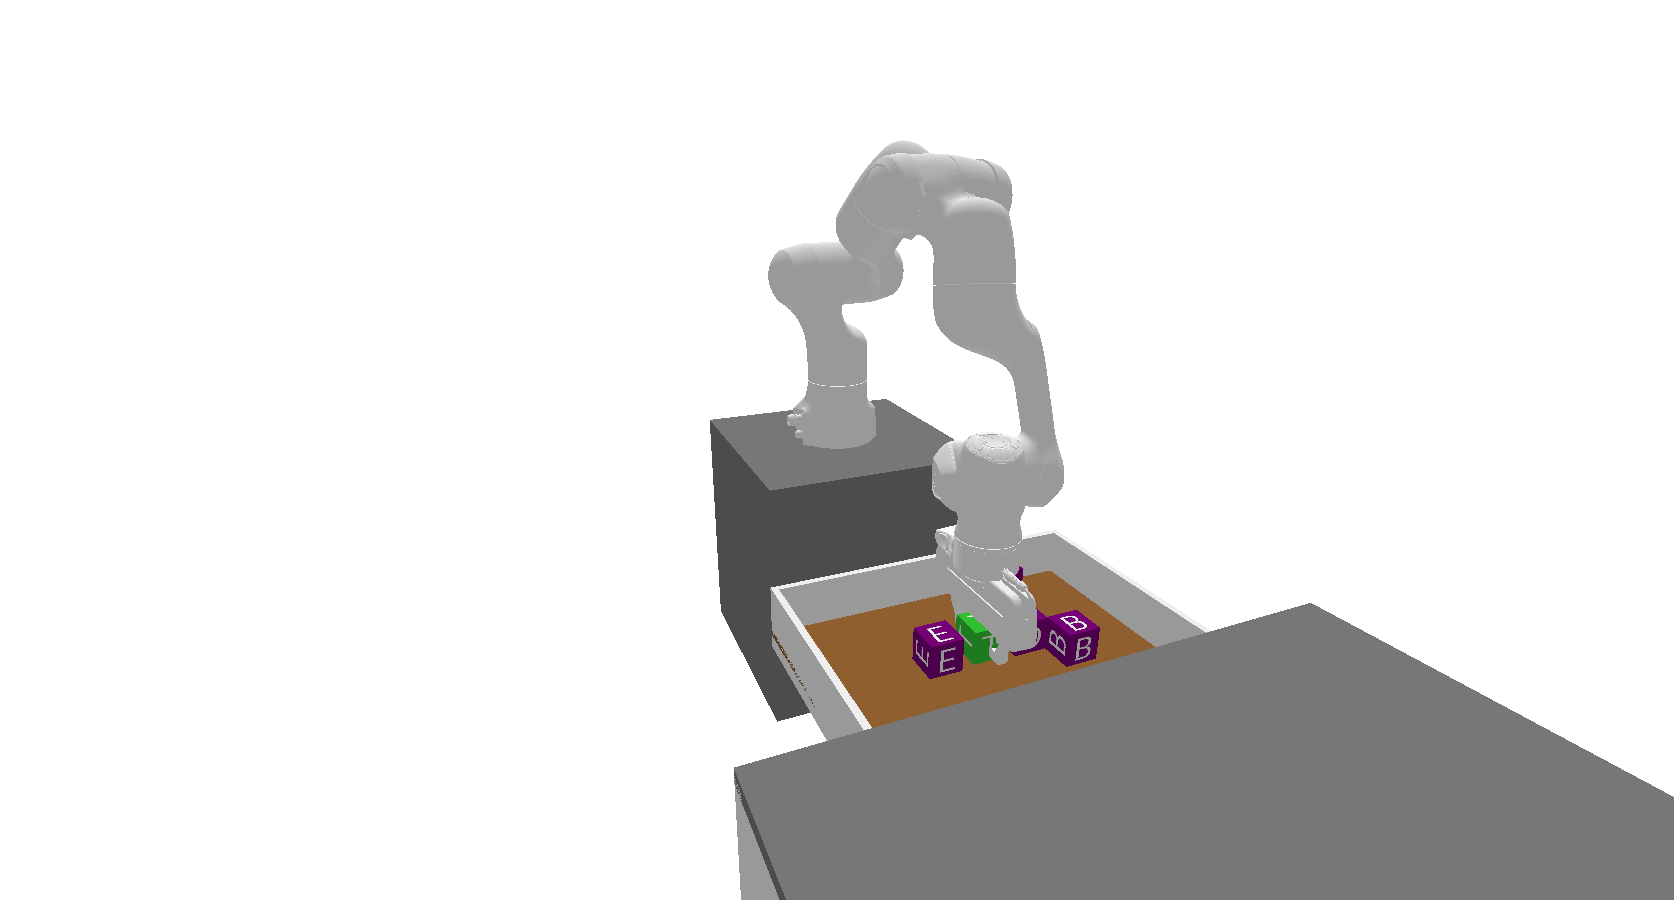
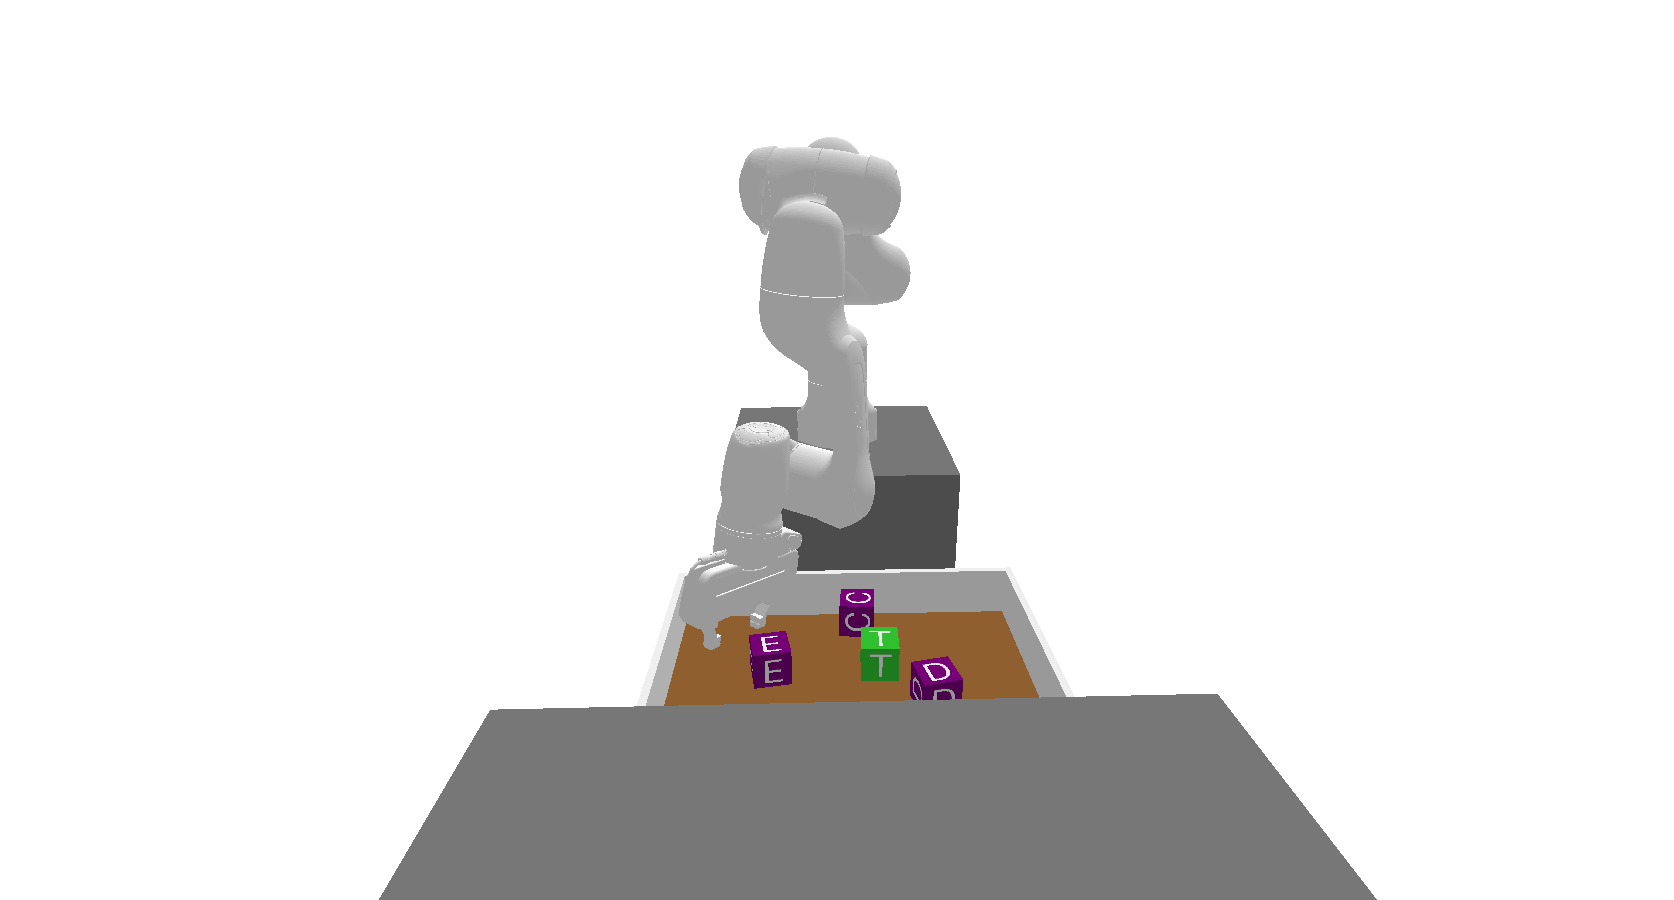
seems that we can connect 1 with 1215

Changed region(s): [[0.2174, 0.1556, 1.0, 1.0], [0.5281, 0.4356, 0.5591, 0.4667]]

diff --git a/src/tamp_improv/approaches/improvisational/base.py b/src/tamp_improv/approaches/improvisational/base.py
@@ -418,7 +418,7 @@ class ImprovisationalTAMPApproach(BaseApproach[ObsType, ActType]):
         visited_states = {frozenset(init_atoms): initial_node}
         queue = deque([(initial_node, 0)])  # Queue for BFS: [(node, depth)]
         node_count = 0
-        max_nodes = 1000
+        max_nodes = 2000
         print(f"Building planning graph with max {max_nodes} nodes...")
 
         # Breadth-first search to build the graph
@@ -598,7 +598,7 @@ class ImprovisationalTAMPApproach(BaseApproach[ObsType, ActType]):
         self,
         obs: ObsType,
         info: dict[str, Any],
-        debug: bool = True,
+        debug: bool = False,
     ) -> None:
         """Compute edge costs considering the path taken to reach each node.
 
@@ -655,6 +655,12 @@ class ImprovisationalTAMPApproach(BaseApproach[ObsType, ActType]):
                 envisioned_plan = [(0, 1), (1, 10), (10, 33), (33, 61), (61, 119), (119, 210), (210, 310), (310, 474), (474, 632), (1, 33)] # pylint: disable=line-too-long
                 if not (node.id, edge.target.id) in envisioned_plan:
                     continue
+
+                # B->C->D->E->T
+                # Node 1215 is a promising short cut
+                # envisioned_plan = [(0, 1), (1, 10), (10, 33), (33, 61), (61, 119), (119, 210), (210, 332), (332, 500), (500, 665), (665, 849), (849, 1068), (1068, 1215), (1215, 1293), (1293, 474), (474, 632), (1, 1215)] # pylint: disable=line-too-long
+                # if not (node.id, edge.target.id) in envisioned_plan:
+                #     continue
 
                 # # DEBUG: Envisioned plan for clear and place env (4 blocks)
                 # envisioned_plan = [(0, 2), (2, 5), (5, 8), (8, 15), (15, 26), (26, 52), (52, 94), (94, 199), (199, 331), (331, 603), (0, 1), (1, 331)]    # pylint: disable=line-too-long

diff --git a/src/tamp_improv/approaches/improvisational/graph_training.py b/src/tamp_improv/approaches/improvisational/graph_training.py
@@ -543,7 +543,7 @@ def identify_promising_shortcuts_with_rollouts(
         )
 
         # # DEBUG:
-        if source_node_id != 3:
+        if source_node_id != 1:
             continue
 
         # Calculate rollouts per state to maintain roughly the same total
@@ -562,6 +562,9 @@ def identify_promising_shortcuts_with_rollouts(
             for rollout_idx in range(rollouts_per_state):
                 if rollout_idx > 0 and rollout_idx % 100 == 0:
                     print(f"  Completed {rollout_idx}/{rollouts_per_state} rollouts")
+                    print(f"  Current Nodes whose atoms are reached from node {source_node_id}:")
+                    for target_id, count in sorted(reached_nodes.items(), key=lambda x: -x[1]):
+                        print(f"    → Node {target_id}: {count}/{num_rollouts_per_node} times")
 
                 # Reset the environment to source state
                 raw_env.reset_from_state(source_state)
@@ -589,7 +592,7 @@ def identify_promising_shortcuts_with_rollouts(
                             continue
 
                         # # DEBUG:
-                        if target_node.id != 15:
+                        if target_node.id != 1215:
                             continue
 
                         # Note: no need to stop this rollout when we reach a node
